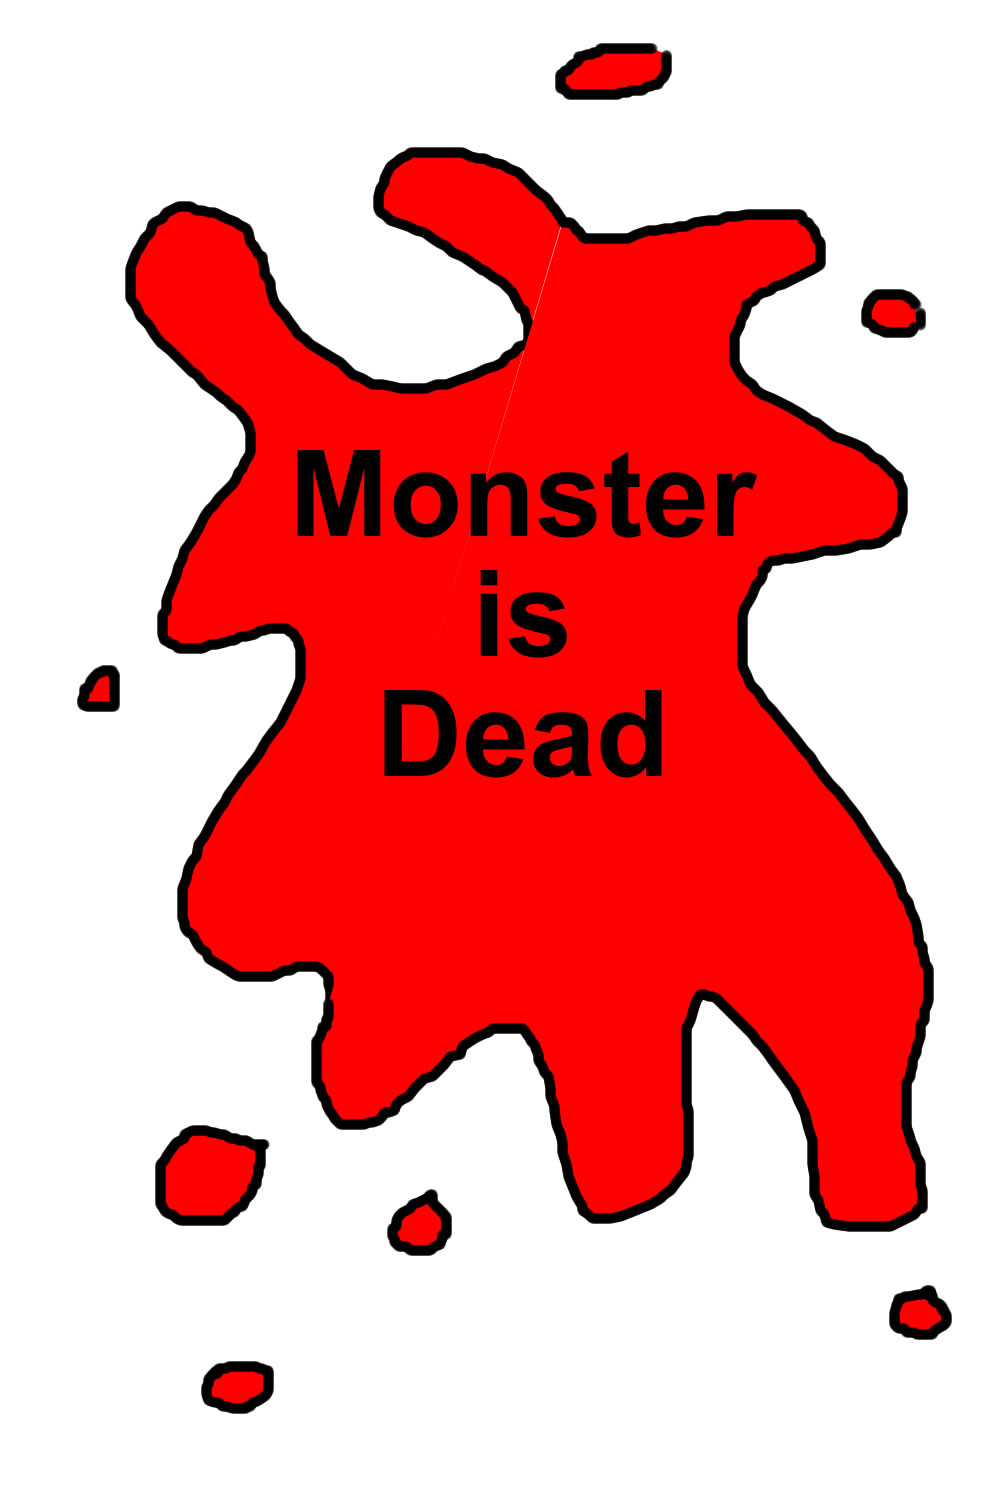
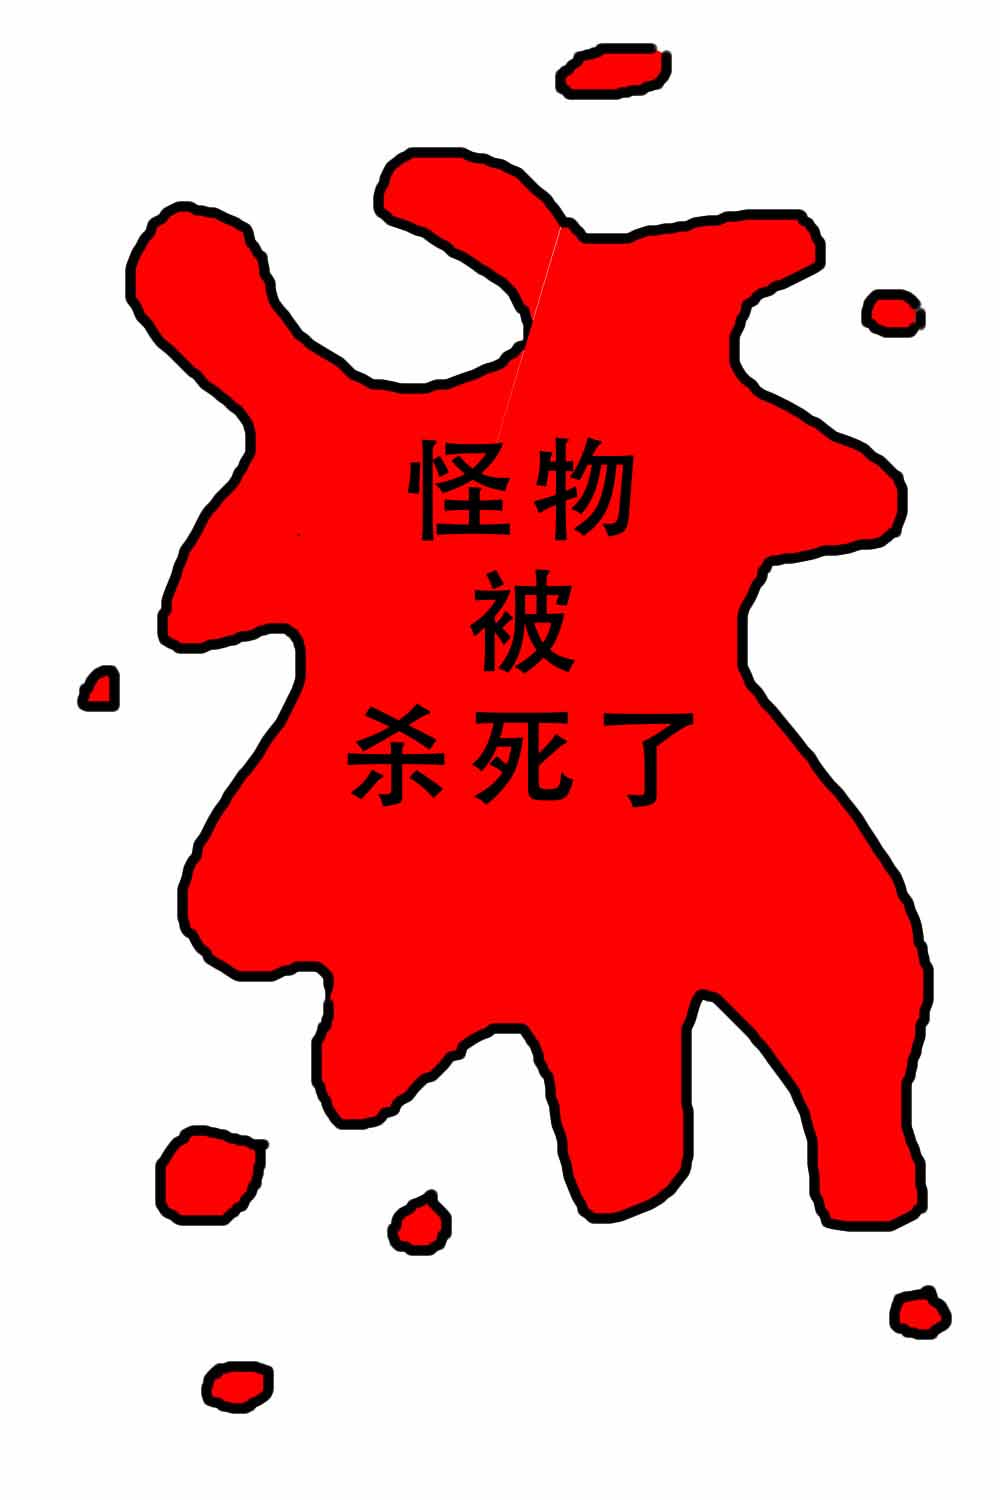
汉化，p图，修复bug

diff --git a/chs.js b/chs.js
@@ -1,0 +1,101 @@
+/*
+
+ @name    : 锅巴汉化 - Web汉化插件
+ @author  : 麦子、JAR、小蓝、好阳光的小锅巴
+ @version : V0.6.1 - 2019-07-09
+ @website : http://www.g8hh.com
+
+*/
+
+//1.汉化杂项
+var cnItems = {
+    _OTHER_: [],
+
+    //未分类：
+    'Attack': '攻击',
+    'Story': '故事',
+    'power =': '伤害 =',
+    'Reputation': '声誉',
+    'Upgrades': '升级',
+    'Reputation Needed': '需要声誉',
+    'Power Boosts': '伤害提升',
+    'Monster Strength': '怪物力量',
+    'John the Farmer\'s Son': '农夫的儿子约翰',
+    'Hero': '英雄',
+    'Buy your heroes power boosts to help them fight.': '购买英雄的伤害提升，来帮助他们战斗。',
+    'You did': '你对怪物造成了',
+    'You Missed': '未命中',
+    'damage to the monster.': '伤害',
+    'damage to the monster and you got': '伤害并且获得了',
+    'cost = $': '成本 = $',
+    '': '',
+    '': '',
+    '': '',
+    '': '',
+    '': '',
+    '': '',
+    '': '',
+    '': '',
+    '': '',
+    'John left his 6 siblings and rural home to seek fame and fortune in the wider world. He has little training but he\'s a willing partner in the fight against the creatures that prowl the wild places. He fights with a simple sword and has the advantage a strong constitution from years of field labor.': '约翰离开了他的6个兄弟姐妹和乡村住所，在更广阔的世界中寻求名利。 他受过很少的训练，但是他是与那些在荒野中徘徊的生物作斗争的自愿伙伴。 他用一把简单的剑战斗，并且由于多年的野外工作而拥有坚强的体质。',
+
+    //原样
+    '': '',
+    '': '',
+
+}
+
+
+//需处理的前缀
+var cnPrefix = {
+    "(-": "(-",
+    "(+": "(+",
+    "(": "(",
+    "-": "-",
+    "+": "+",
+    " ": " ",
+    ": ": "： ",
+}
+
+//需处理的后缀
+var cnPostfix = {
+    ":": "：",
+    "：": "：",
+    ": ": "： ",
+    "： ": "： ",
+    " ": "",
+    "/s)": "/s)",
+    "/s": "/s",
+    ")": ")",
+    "%": "%",
+}
+
+//需排除的，正则匹配
+var cnExcludeWhole = [
+    /^x?\d+(\.\d+)?[A-Za-z%]{0,2}(\s.C)?\s*$/, //12.34K,23.4 °C
+    /^x?\d+(\.\d+)?(e[+\-]?\d+)?\s*$/, //12.34e+4
+    /^\s*$/, //纯空格
+    /^\d+(\.\d+)?[A-Za-z]{0,2}.?\(?([+\-]?(\d+(\.\d+)?[A-Za-z]{0,2})?)?$/, //12.34M (+34.34K
+    /^(\d+(\.\d+)?[A-Za-z]{0,2}\/s)?.?\(?([+\-]?\d+(\.\d+)?[A-Za-z]{0,2})?\/s\stot$/, //2.74M/s (112.4K/s tot
+    /^\d+(\.\d+)?(e[+\-]?\d+)?.?\(?([+\-]?(\d+(\.\d+)?(e[+\-]?\d+)?)?)?$/, //2.177e+6 (+4.01+4
+    /^(\d+(\.\d+)?(e[+\-]?\d+)?\/s)?.?\(?([+\-]?(\d+(\.\d+)?(e[+\-]?\d+)?)?)?\/s\stot$/, //2.177e+6/s (+4.01+4/s tot
+];
+var cnExcludePostfix = [
+    /:?\s*x?\d+(\.\d+)?(e[+\-]?\d+)?\s*$/, //12.34e+4
+    /:?\s*x?\d+(\.\d+)?[A-Za-z]{0,2}$/, //: 12.34K, x1.5
+]
+
+//正则替换，带数字的固定格式句子
+//纯数字：(\d+)
+//逗号：([\d\.,]+)
+//小数点：([\d\.]+)
+//原样输出的字段：(.+)
+var cnRegReplace = new Map([
+    [/^requires ([\d\.]+) more research points$/, '需要$1个研究点'],
+    [/^(.+) Power to Hero (.+) \$$/, '英雄 $2 伤害提升 $1 需要\$'],
+    [/^(.+) Power to Manual Attack \$$/, '手动伤害提升 $1 需要\$'],
+    [/^Your team did (.+) power damage!!$/, '您的团队造成了 $1倍 力量伤害！！'],
+    [/^Usages: (\d+)\/$/, '用途：$1\/'],
+    [/^workers: (\d+)\/$/, '工人：$1\/'],
+
+]);

diff --git a/index.html b/index.html
@@ -18,11 +18,13 @@
 < ------------------------------------------------------------------------------>
 
 <head>
-	<title>Idle Heroes vs Monsters</title>
+	<title>放置英雄 - Idle Heroes vs Monsters</title>
 	<link rel="stylesheet" type="text/css" href="style.css">
 </head>
 
 <body>
+<script src="chs.js"></script>
+<script src="//likexia.gitee.io/game/zh/core.js"></script>
 	<!--<div class="pageWidth" align="center">-->
 		<table width="100%" id="mainTable"><tr>
 			<td valign="top" align="center" width="35%" id="leftSide">
@@ -211,7 +213,11 @@
 	<script type="text/javascript" src="heroes.js"></script>
 	<!-- General JS -->
 	<script type="text/javascript" src="main.js"></script>
-
+<!--客服 开始-->
+<script src="//likexia.gitee.io/game/js/jquery.min.js"></script>
+<link rel="stylesheet" href="//likexia.gitee.io/game/css/kf.css" type="text/css" media="screen" charset="utf-8">
+<script src="//likexia.gitee.io/game/js/kf.js"></script>
+<!-- 客服 结束 -->
 </body>
 </html>
 

diff --git a/saves.js b/saves.js
@@ -13,7 +13,7 @@
 function updatesaves(){
 	localStorage.setItem("money2", money);
 	localStorage.setItem("reputation2", reputation);
-	localStorage.setItem("damage2", damage);
+	localStorage.setItem("damage2", selfDamage);
 	localStorage.setItem("powermax2", powermax);
 	localStorage.setItem("monstermax", monstermax);
 	localStorage.setItem("selfupgrades", selfupgrades);
